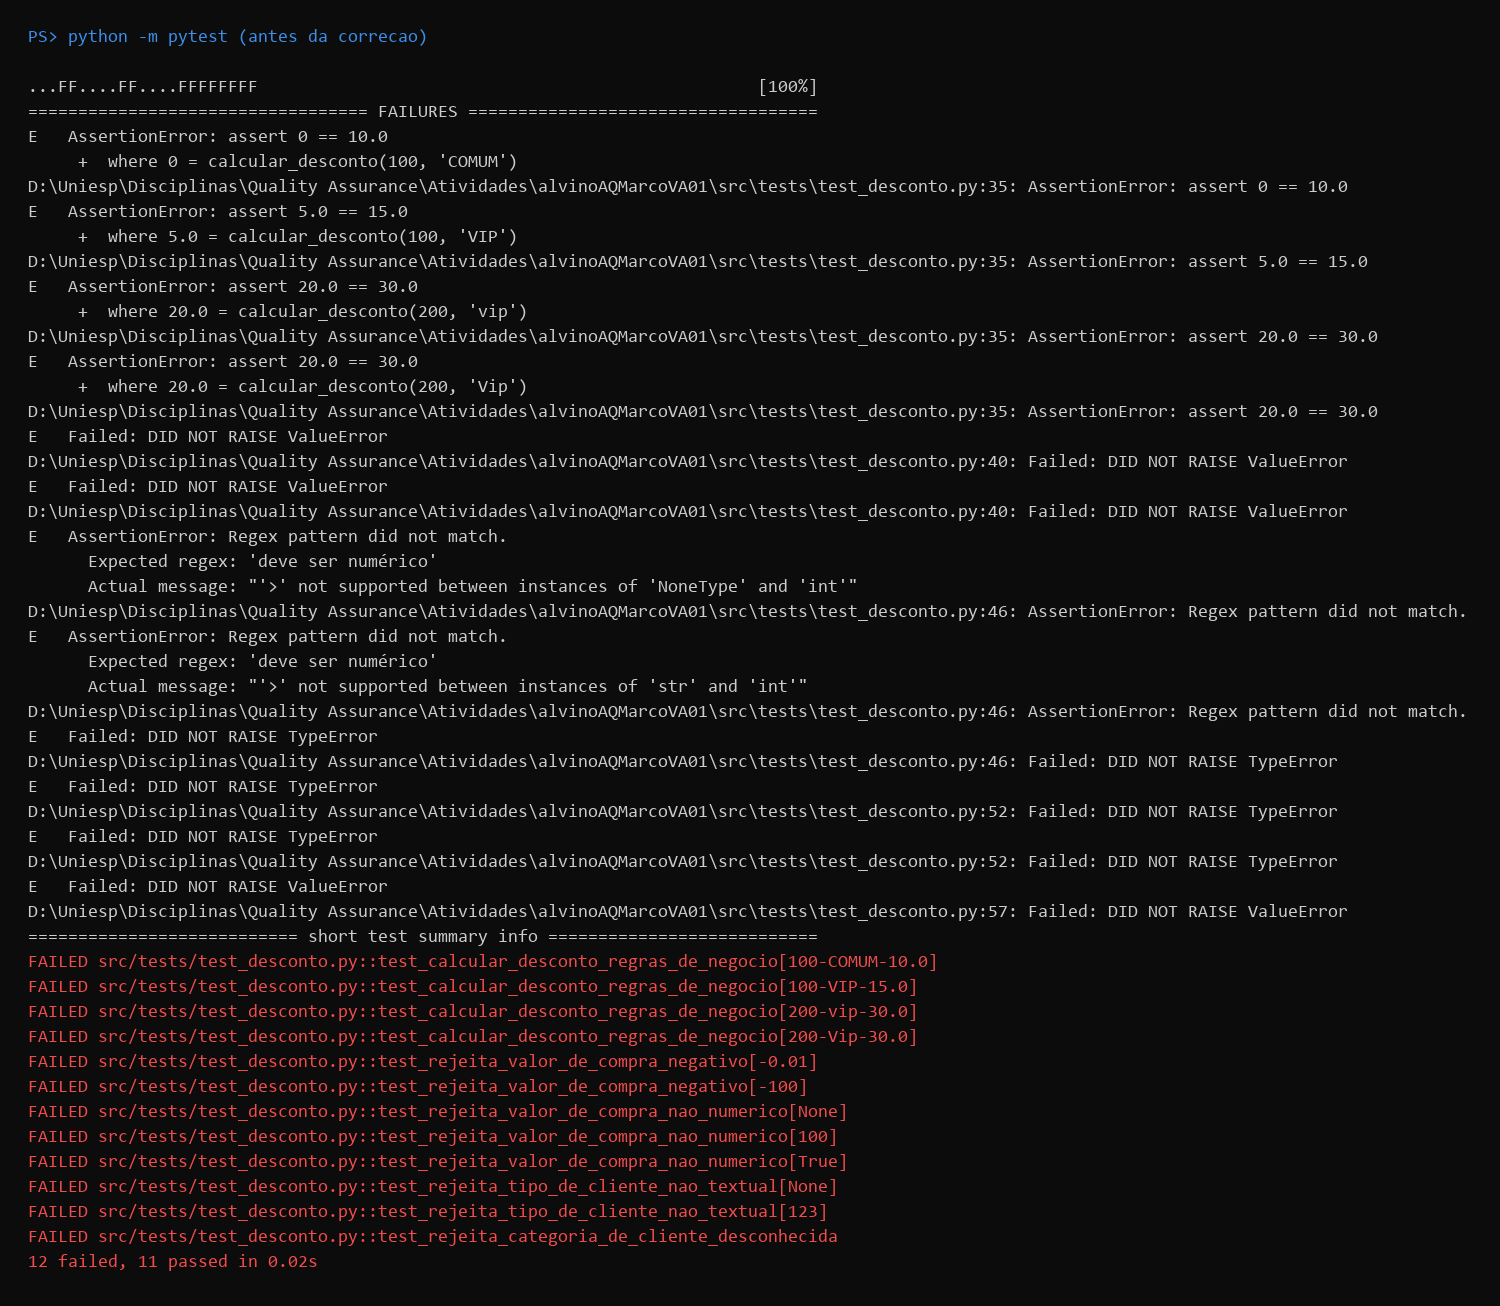
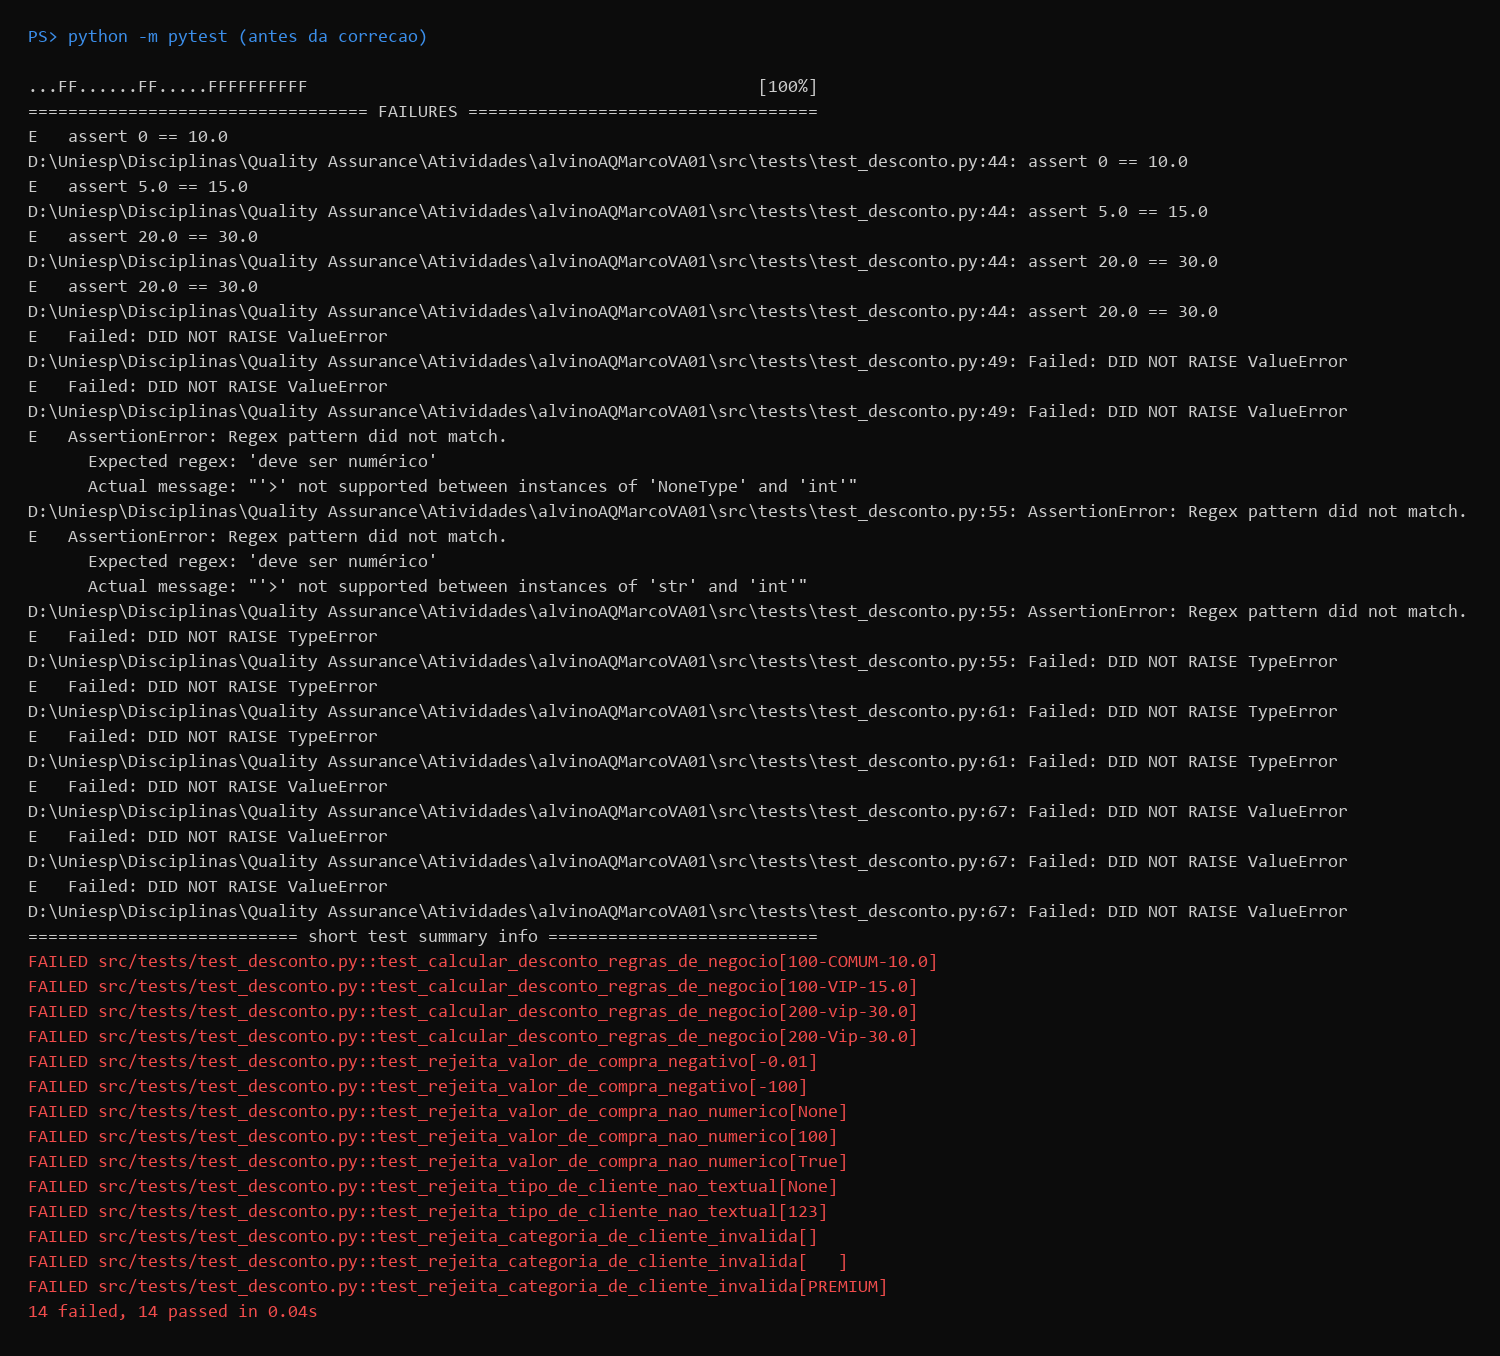
Amplia cobertura de limites e testes negativos

diff --git a/src/tests/test_desconto.py b/src/tests/test_desconto.py
@@ -13,18 +13,21 @@ from ecommerce.desconto import calcular_desconto
         # R$ 100 é o limite inclusivo da faixa de 10%.
         (100, "COMUM", 10.00),
         (100, "VIP", 15.00),
+        (100.01, "COMUM", 10.00),
         # Interior e limite superior da faixa de 10%.
         (300, "COMUM", 30.00),
         (499.99, "COMUM", 50.00),
         # R$ 500 inicia a faixa de 20%.
         (500, "COMUM", 100.00),
         (500, "VIP", 125.00),
+        (500.01, "COMUM", 100.00),
         # A identificação de VIP não diferencia maiúsculas de minúsculas.
         (200, "vip", 30.00),
         (200, "Vip", 30.00),
         # Valores abaixo, exatamente no teto e acima dele.
         (799.96, "VIP", 199.99),
         (800, "VIP", 200.00),
+        (800.01, "VIP", 200.00),
         (1000, "COMUM", 200.00),
         (2000, "VIP", 200.00),
     ],
@@ -32,7 +35,13 @@ from ecommerce.desconto import calcular_desconto
 def test_calcular_desconto_regras_de_negocio(
     valor_compra, tipo_cliente, desconto_esperado
 ):
-    assert calcular_desconto(valor_compra, tipo_cliente) == desconto_esperado
+    # Arrange: dados recebidos do parametrize.
+
+    # Act
+    desconto_calculado = calcular_desconto(valor_compra, tipo_cliente)
+
+    # Assert
+    assert desconto_calculado == desconto_esperado
 
 
 @pytest.mark.parametrize("valor_invalido", [-0.01, -100])
@@ -53,6 +62,7 @@ def test_rejeita_tipo_de_cliente_nao_textual(tipo_invalido):
         calcular_desconto(100, tipo_invalido)
 
 
-def test_rejeita_categoria_de_cliente_desconhecida():
+@pytest.mark.parametrize("tipo_invalido", ["", "   ", "PREMIUM"])
+def test_rejeita_categoria_de_cliente_invalida(tipo_invalido):
     with pytest.raises(ValueError, match="COMUM ou VIP"):
-        calcular_desconto(100, "PREMIUM")
+        calcular_desconto(100, tipo_invalido)

diff --git a/src/tests/cenarios/cenarios_desconto.md b/src/tests/cenarios/cenarios_desconto.md
@@ -7,19 +7,22 @@
 | CT03 | Compra logo abaixo de R$ 100, VIP | `99.99`, `VIP` | R$ 5,00 (5%) |
 | CT04 | Compra exatamente de R$ 100, comum | `100`, `COMUM` | R$ 10,00 (10%) |
 | CT05 | Compra exatamente de R$ 100, VIP | `100`, `VIP` | R$ 15,00 (15%) |
-| CT06 | Compra entre R$ 100 e R$ 500, comum | `300`, `COMUM` | R$ 30,00 (10%) |
-| CT07 | Compra logo abaixo de R$ 500, comum | `499.99`, `COMUM` | R$ 50,00 apó arredondamento |
-| CT08 | Compra exatamente de R$ 500, comum | `500`, `COMUM` | R$ 100,00 (20%) |
-| CT09 | Compra exatamente de R$ 500, VIP | `500`, `VIP` | R$ 125,00 (25%) |
-| CT10 | VIP escrito em minúsculas | `200`, `vip` | R$ 30,00 (15%) |
-| CT11 | VIP com letras mistas | `200`, `Vip` | R$ 30,00 (15%) |
-| CT12 | Desconto logo abaixo do teto | `799.96`, `VIP` | R$ 199,99 |
-| CT13 | Desconto exatamente no teto | `800`, `VIP` | R$ 200,00 |
-| CT14 | Desconto calculado no teto, cliente comum | `1000`, `COMUM` | R$ 200,00 |
-| CT15 | Desconto acima do teto | `2000`, `VIP` | R$ 200,00 |
-| CT16 | Valor negativo (dado inesperado) | `-0.01` e `-100`, `COMUM` | Lançar `ValueError` |
-| CT17 | Valor não numérico (dado inesperado) | `None`, `"100"` e `True` | Lançar `TypeError` |
-| CT18 | Tipo de cliente não textual (dado inesperado) | `None` e `123` | Lançar `TypeError` |
-| CT19 | Categoria desconhecida (dado inesperado) | `100`, `PREMIUM` | Lançar `ValueError` |
+| CT06 | Compra imediatamente acima de R$ 100, comum | `100.01`, `COMUM` | R$ 10,00 apó arredondamento |
+| CT07 | Compra entre R$ 100 e R$ 500, comum | `300`, `COMUM` | R$ 30,00 (10%) |
+| CT08 | Compra logo abaixo de R$ 500, comum | `499.99`, `COMUM` | R$ 50,00 apó arredondamento |
+| CT09 | Compra exatamente de R$ 500, comum | `500`, `COMUM` | R$ 100,00 (20%) |
+| CT10 | Compra exatamente de R$ 500, VIP | `500`, `VIP` | R$ 125,00 (25%) |
+| CT11 | Compra imediatamente acima de R$ 500, comum | `500.01`, `COMUM` | R$ 100,00 apó arredondamento |
+| CT12 | VIP escrito em minúsculas | `200`, `vip` | R$ 30,00 (15%) |
+| CT13 | VIP com letras mistas | `200`, `Vip` | R$ 30,00 (15%) |
+| CT14 | Desconto logo abaixo do teto | `799.96`, `VIP` | R$ 199,99 |
+| CT15 | Desconto exatamente no teto | `800`, `VIP` | R$ 200,00 |
+| CT16 | Desconto imediatamente acima do teto | `800.01`, `VIP` | R$ 200,00 |
+| CT17 | Desconto calculado no teto, cliente comum | `1000`, `COMUM` | R$ 200,00 |
+| CT18 | Desconto acima do teto | `2000`, `VIP` | R$ 200,00 |
+| CT19 | Valor negativo (dado inesperado) | `-0.01` e `-100`, `COMUM` | Lançar `ValueError` |
+| CT20 | Valor não numérico (dado inesperado) | `None`, `"100"` e `True` | Lançar `TypeError` |
+| CT21 | Tipo de cliente não textual (dado inesperado) | `None` e `123` | Lançar `TypeError` |
+| CT22 | Categoria inválida (dado inesperado) | `""`, `"   "` e `PREMIUM` | Lançar `ValueError` |
 
 Foram aplicadas partição de equivalência e análise de valor-limite. Para entradas que a história não especifica, foi definido um comportamento seguro: rejeitar o dado explicitamente em vez de devolver um desconto silenciosamente incorreto.

diff --git a/README.md b/README.md
@@ -25,7 +25,7 @@ Projeto de testes unitários automatizados para uma função de descontos progre
 
 - `src/ecommerce/desconto.py`: implementação corrigida.
 - `src/ecommerce/desconto_original.py`: cópia do código recebido do Dev Jr.
-- `src/tests/test_desconto.py`: 23 casos automatizados com Pytest.
+- `src/tests/test_desconto.py`: 28 casos automatizados com Pytest.
 - `src/tests/cenarios/cenarios_desconto.md`: cenários descritos textualmente.
 - `evidencias/`: relatórios e imagens das execuções antes e depois.
 
